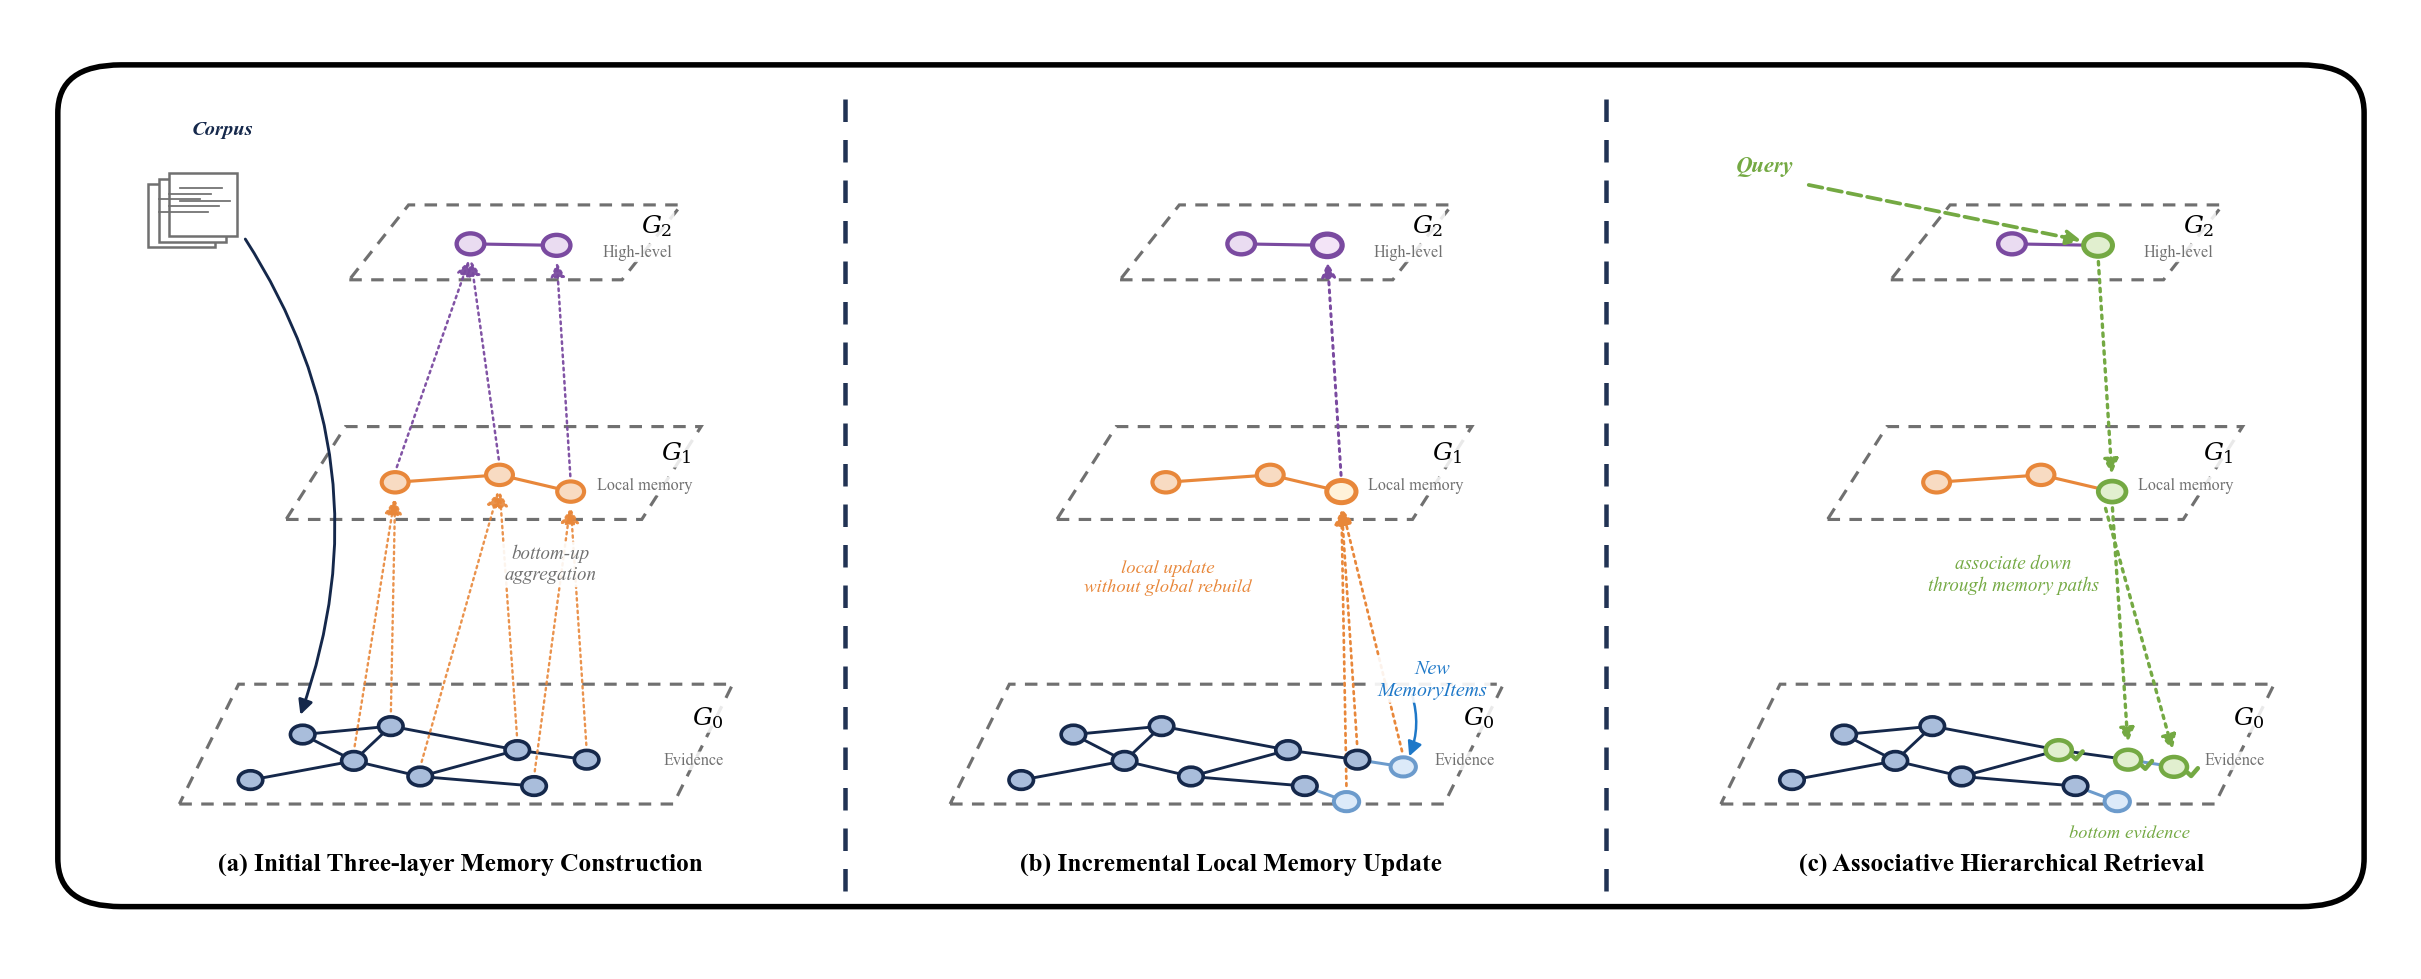
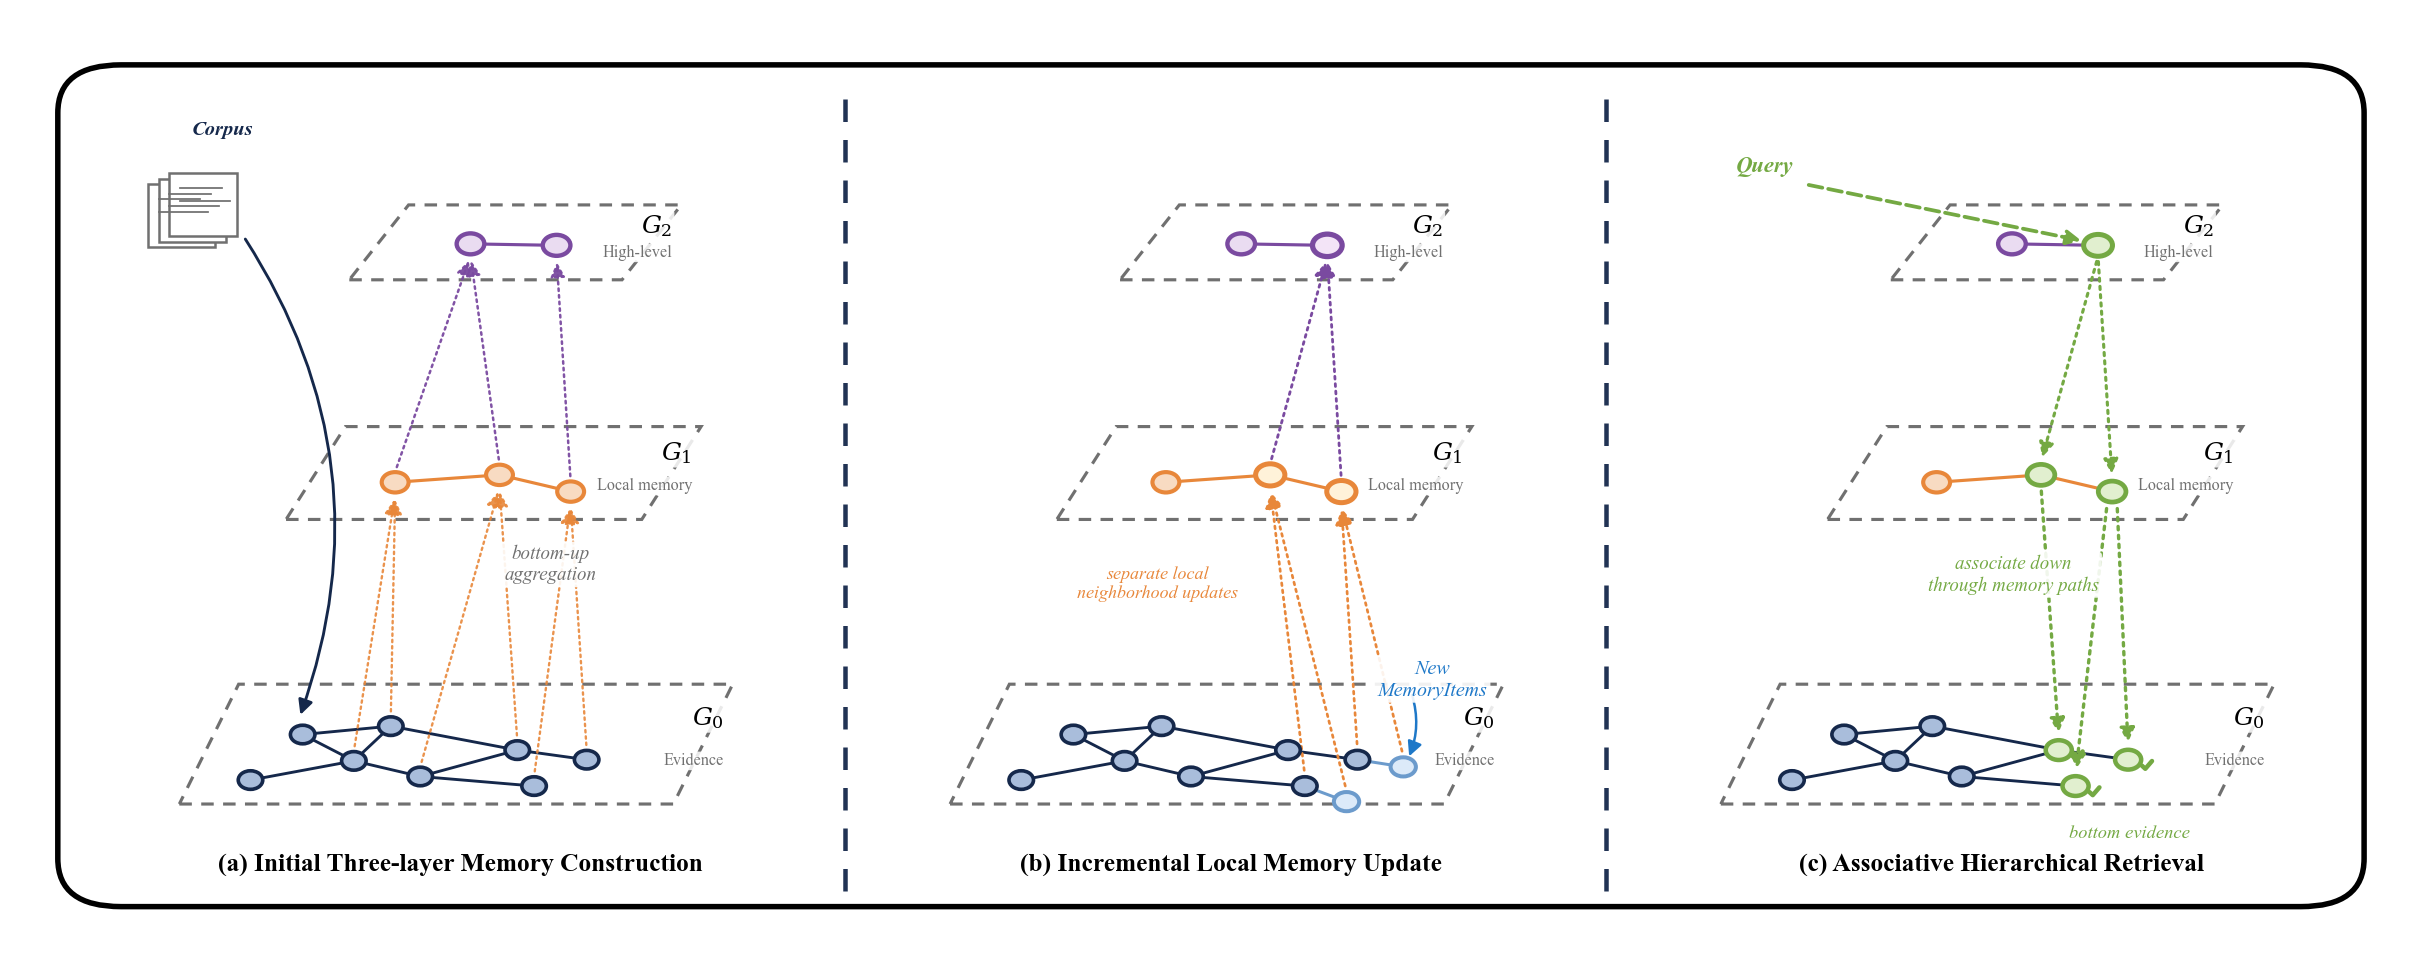
docs: clarify local update and retrieval workflow

diff --git a/scripts/render_sam_memory_process_figure.py b/scripts/render_sam_memory_process_figure.py
@@ -353,26 +353,32 @@ def draw_panel_initial(ax, ox: float) -> None:
 
 
 def draw_panel_update(ax, ox: float) -> None:
-    layout = draw_layered_memory(ax, ox, include_new=True, update_g1={"l3"}, update_g2={"t2"})
+    layout = draw_layered_memory(ax, ox, include_new=True, update_g1={"l2", "l3"}, update_g2={"t2"})
     g0_pts = layout["g0_pts"]
     g1_pts = layout["g1_pts"]
     g2_pts = layout["g2_pts"]
 
     label_box(ax, ox + 26.2, 18.3, "New\nMemoryItems", color="#1e78c8", fontsize=8.0)
     arrow(ax, (ox + 25.1, 17.6), (g0_pts["new1"][0] + 0.2, g0_pts["new1"][1] + 0.4), color="#1e78c8", lw=1.0, rad=-0.20)
-    for src in ["h", "new1", "new2"]:
-        arrow(ax, (g0_pts[src][0], g0_pts[src][1] + 0.72), (g1_pts["l3"][0], g1_pts["l3"][1] - 0.88), color=COLORS["orange"], lw=1.08, ls=":")
-    arrow(ax, (g1_pts["l3"][0], g1_pts["l3"][1] + 0.75), (g2_pts["t2"][0], g2_pts["t2"][1] - 0.8), color=COLORS["purple"], lw=1.2, ls=":")
-    label_box(ax, ox + 12.8, 25.1, "local update\nwithout global rebuild", color=COLORS["orange"], fontsize=7.5)
+    local_updates = {
+        "l3": ["h", "new1"],
+        "l2": ["g", "new2"],
+    }
+    for dst, sources in local_updates.items():
+        for src in sources:
+            arrow(ax, (g0_pts[src][0], g0_pts[src][1] + 0.72), (g1_pts[dst][0], g1_pts[dst][1] - 0.88), color=COLORS["orange"], lw=1.08, ls=":")
+    for src in ["l2", "l3"]:
+        arrow(ax, (g1_pts[src][0], g1_pts[src][1] + 0.75), (g2_pts["t2"][0], g2_pts["t2"][1] - 0.8), color=COLORS["purple"], lw=1.12, ls=":")
+    label_box(ax, ox + 12.3, 24.7, "separate local\nneighborhood updates", color=COLORS["orange"], fontsize=7.2)
 
 
 def draw_panel_retrieval(ax, ox: float) -> None:
     layout = draw_layered_memory(
         ax,
         ox,
-        include_new=True,
-        active_g0={"d", "h", "new1"},
-        active_g1={"l3"},
+        include_new=False,
+        active_g0={"d", "g", "h"},
+        active_g1={"l2", "l3"},
         active_g2={"t2"},
     )
     g0_pts = layout["g0_pts"]
@@ -381,10 +387,12 @@ def draw_panel_retrieval(ax, ox: float) -> None:
 
     label_box(ax, ox + 4.0, 52.5, "Query", color=COLORS["green"], fontsize=9.0, weight="bold")
     arrow(ax, (ox + 6.0, 51.4), (g2_pts["t2"][0] - 0.6, g2_pts["t2"][1] + 0.25), color=COLORS["green"], lw=1.5, ls="--")
-    arrow(ax, (g2_pts["t2"][0], g2_pts["t2"][1] - 0.75), (g1_pts["l3"][0], g1_pts["l3"][1] + 0.85), color=COLORS["green"], lw=1.35, ls=":")
-    arrow(ax, (g1_pts["l3"][0], g1_pts["l3"][1] - 0.75), (g0_pts["h"][0], g0_pts["h"][1] + 0.8), color=COLORS["green"], lw=1.35, ls=":")
-    arrow(ax, (g1_pts["l3"][0] - 0.4, g1_pts["l3"][1] - 0.8), (g0_pts["new1"][0], g0_pts["new1"][1] + 0.8), color=COLORS["green"], lw=1.35, ls=":")
-    for name in ["d", "h", "new1"]:
+    for dst in ["l2", "l3"]:
+        arrow(ax, (g2_pts["t2"][0], g2_pts["t2"][1] - 0.75), (g1_pts[dst][0], g1_pts[dst][1] + 0.85), color=COLORS["green"], lw=1.25, ls=":")
+    arrow(ax, (g1_pts["l2"][0], g1_pts["l2"][1] - 0.75), (g0_pts["d"][0], g0_pts["d"][1] + 0.8), color=COLORS["green"], lw=1.35, ls=":")
+    arrow(ax, (g1_pts["l3"][0] - 0.25, g1_pts["l3"][1] - 0.8), (g0_pts["g"][0], g0_pts["g"][1] + 0.8), color=COLORS["green"], lw=1.35, ls=":")
+    arrow(ax, (g1_pts["l3"][0] + 0.25, g1_pts["l3"][1] - 0.8), (g0_pts["h"][0], g0_pts["h"][1] + 0.8), color=COLORS["green"], lw=1.35, ls=":")
+    for name in ["d", "g", "h"]:
         check(ax, g0_pts[name][0] + 0.7, g0_pts[name][1] - 0.4, scale=0.47)
     label_box(ax, ox + 16.6, 25.3, "associate down\nthrough memory paths", color=COLORS["green"], fontsize=7.6)
     label_box(ax, ox + 22.5, 8.0, "bottom evidence", color=COLORS["green"], fontsize=7.4)